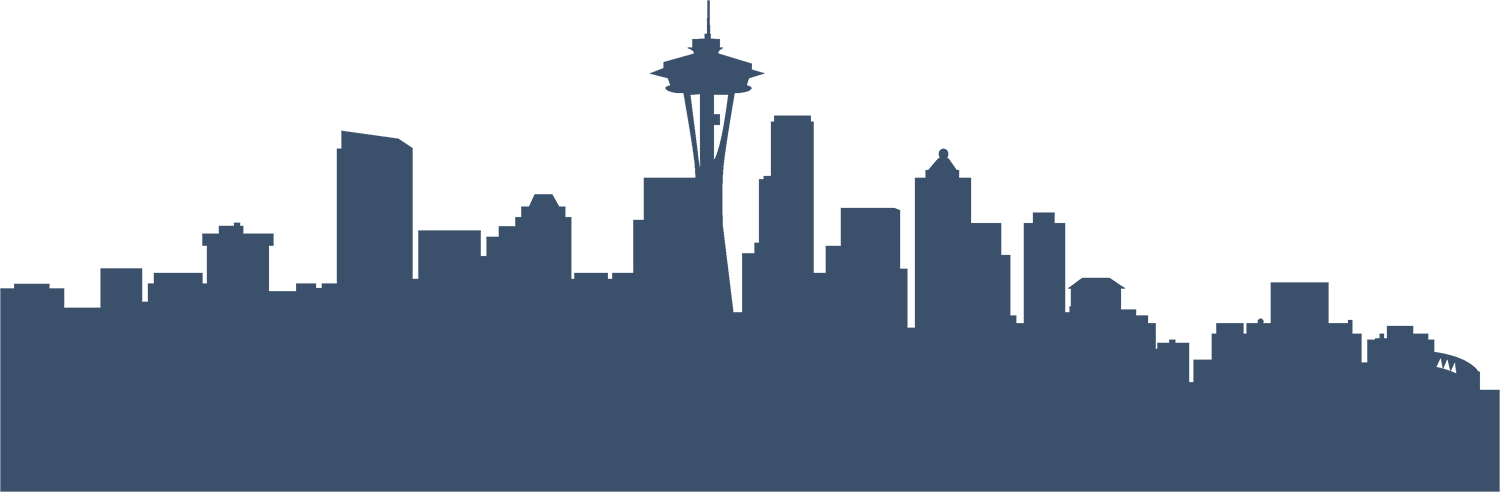
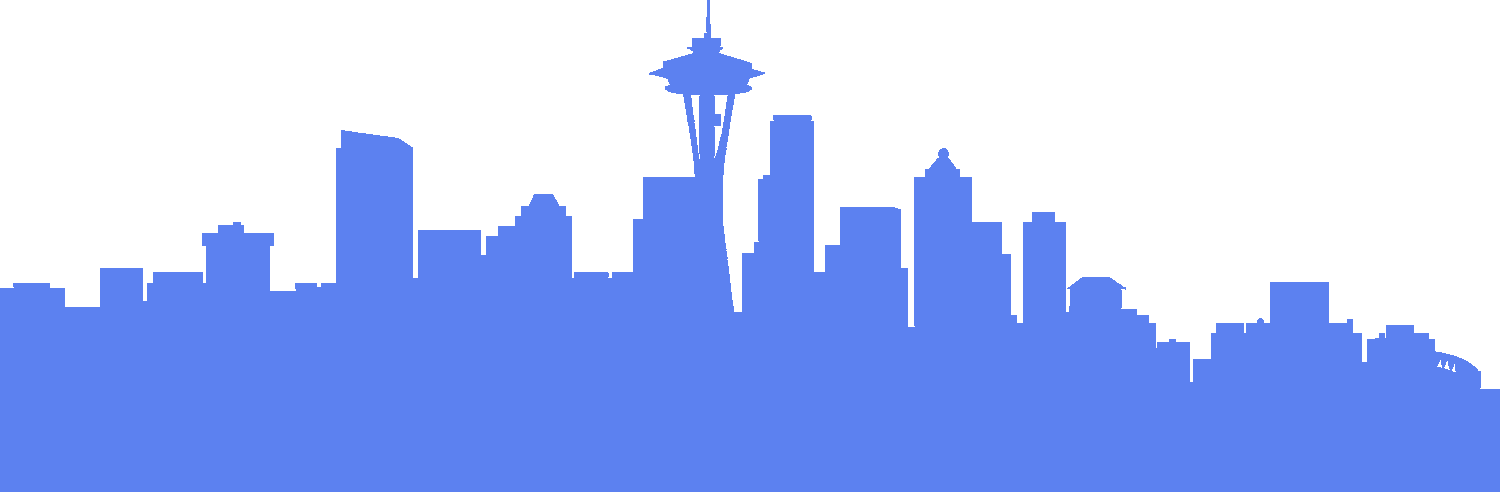
Found possible new color scheme

diff --git a/styles/scss-imports/_colors.scss b/styles/scss-imports/_colors.scss
@@ -22,3 +22,23 @@ $orangeHighlight70: rgba(228, 86, 46, .8);
 // $redBrown: hsla(3%, 62%, 38%, 1);
 // $greyBlue: hsla(213%, 30%, 32%, 1);
 // $lightGrey: hsla(209%, 12%, 51%, 1);
+
+
+
+// Hopefully new color scheme:
+
+// $black: rgba(8, 7, 5, 1);
+// $white: rgba(251, 245, 243, 1);
+// $redBrown: rgba(215, 38, 56, 1);
+// $greyBlue: rgba(92, 129, 240, 1);
+// $lightGrey: rgba(115, 130, 144, 1);
+// $orangeHighlight: rgba(255, 195, 19, 1);
+//
+//
+// /* RGB all the same 70% opacity */
+// $black70: rgba(8, 7, 5, 0.8);
+// $white70: rgba(251, 245, 243, 0.8);
+// $redBrown70: rgba(236, 31, 38, 0.8);
+// $greyBlue70: rgba(92, 129, 240, 0.7);
+// $lightGrey70: rgba(115, 130, 144, 0.8);
+// $orangeHighlight70: rgba(255, 195, 19, .8);
